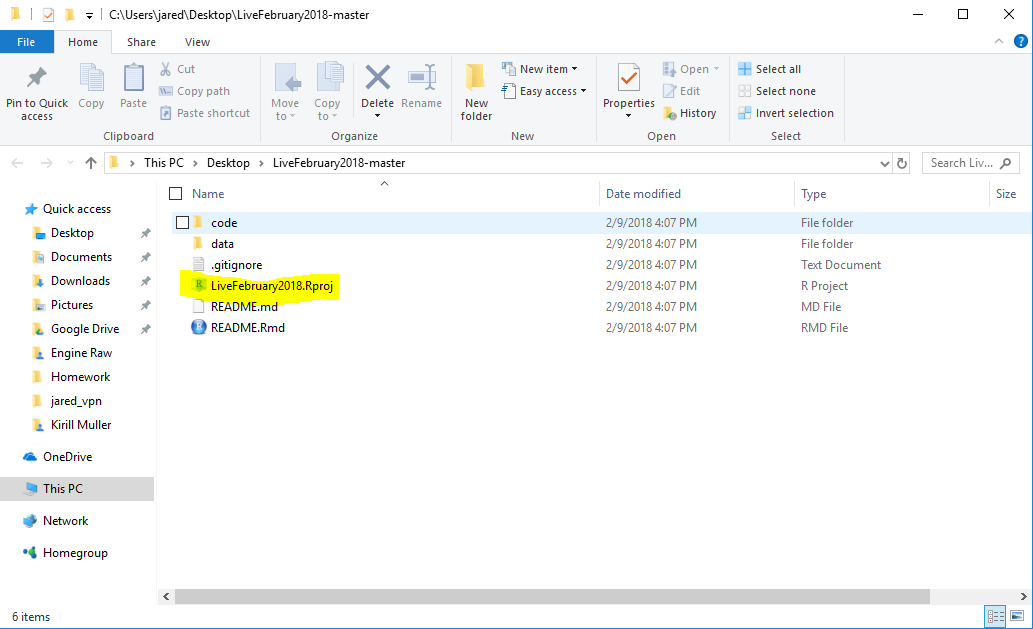
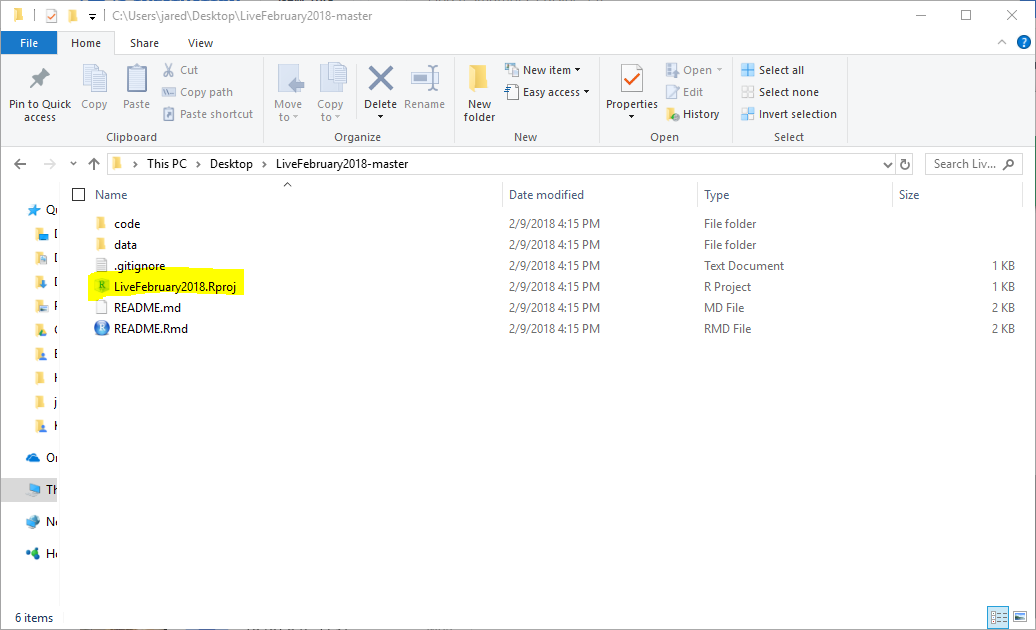
shows less sidebar

Changed region(s): [[0.0, 0.0, 1.0, 1.0], [0.1549, 0.9364, 0.8984, 0.9666], [0.0, 0.2417, 0.031, 0.2719]]

diff --git a/README.md b/README.md
@@ -27,7 +27,7 @@ newProject <- usethis::use_course('https://github.com/jaredlander/LiveFebruary20
 
 After that runs successfully you will have a new folder holding the R project that looks like this.
 
-<img src="images/ProjectFolder.png" width="1033" />
+<img src="images/ProjectFolder.png" width="1036" />
 
 Either double-click the file called LiveFebruary2018.Rproj or run the following line of code.
 
